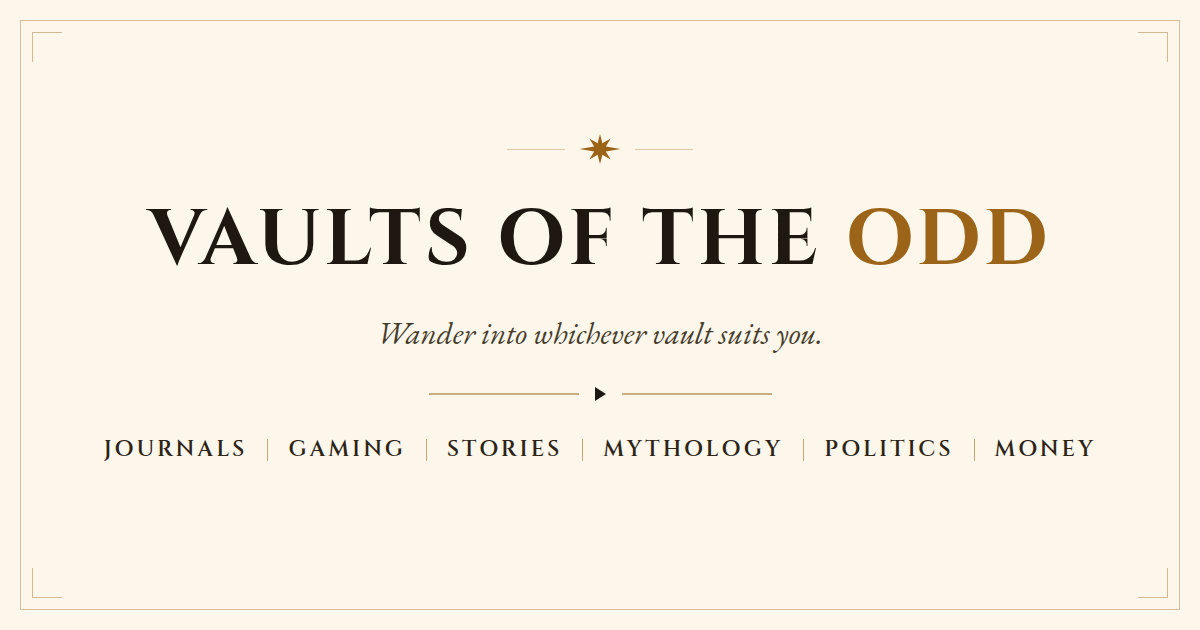
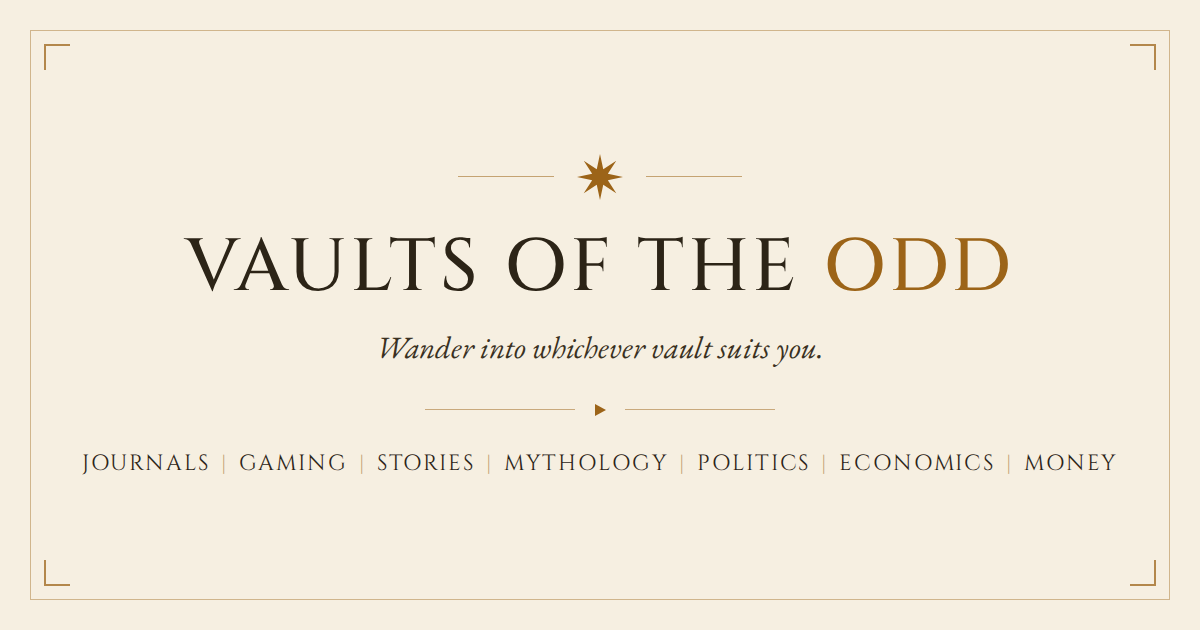
Social cards: refresh default card with Economics, add Economics card
Regenerate og-default.png so the site-wide social/link-preview card lists
all seven vaults including Economics (previously frozen at six). Add a new
og-economics.png in the per-section style (Money-card layout, pine-green),
and cascade it to every page in the Economics section as Money does with
its own card. Both rendered at 1200x630 in the site's own Cinzel and EB
Garamond faces.

Claude-Session: https://claude.ai/code/session_01MFVa5sYYDjsbReDZ77nofE

diff --git a/content/economics/_index.md b/content/economics/_index.md
@@ -4,6 +4,10 @@ title: "Economics"
 # formerly under /politics/ (WIPE, the Persistent Asset Charge and its
 # Stress-Test) was re-homed here, with aliases redirecting the old URLs.
 description: "Analytical writing on economic systems — what they distribute, incentivise, or fail to provide. Discussion papers on fiscal architecture and institutional design by Drew Griffiths."
+# Economics-specific social-share banner, cascaded to every paper in the section.
+cascade:
+  images:
+    - /images/og-economics.png
 sections:
   - key: uk
     label: "United Kingdom"
